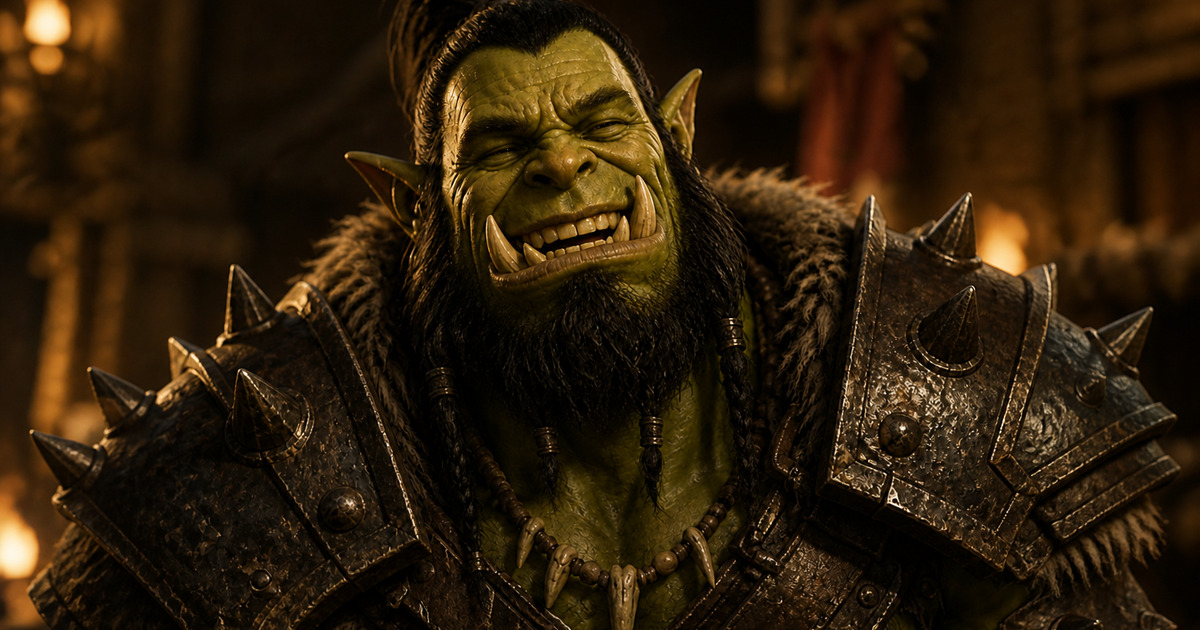
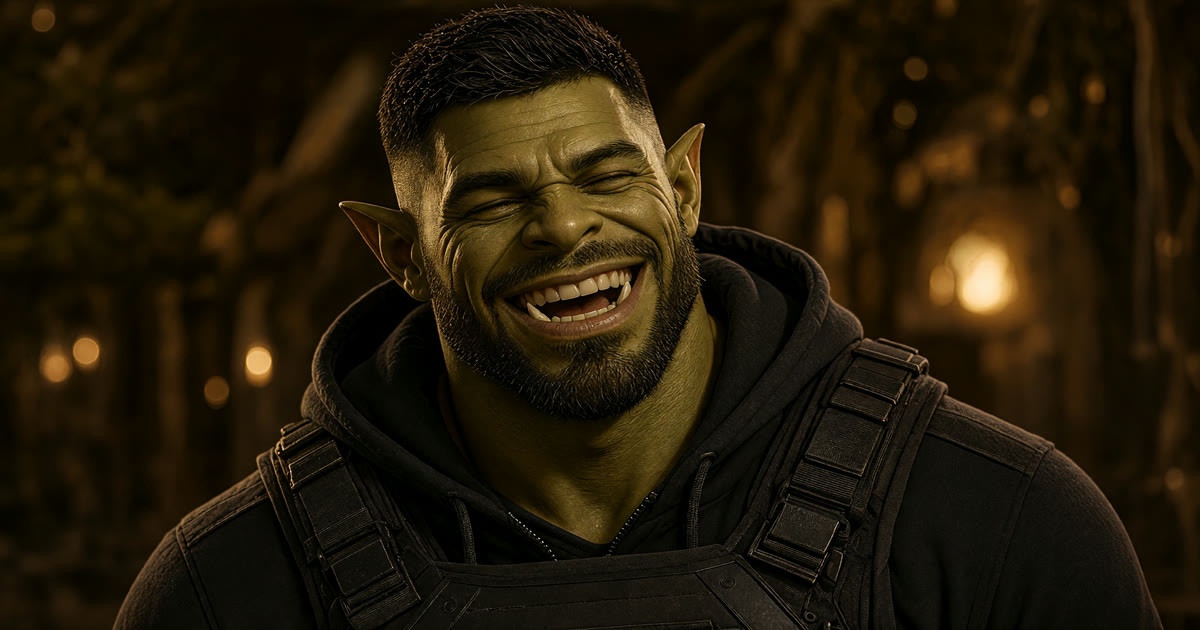
Redesign Happy as a young modern orc warrior.

diff --git a/scripts/imagine-video.ts b/scripts/imagine-video.ts
@@ -59,7 +59,7 @@ const PROMPTS: Record<string, string> = {
     "The orc charges forward with the army, ranks running behind him, then bellows a rallying war cry, fist raised. Keep the wide shot and the army in frame. Locked camera, no zoom to a close-up.",
   gold: "The orc sits on the treasure and grins richer as coins shift and glint. A small satisfied chuckle in the shoulders. Locked camera.",
   happy:
-    "The orc laughs happily, a warm chuckle shaking his shoulders, eyes crinkling, grin holding. Locked camera.",
+    "The orc laughs happily, a warm chuckle shaking his shoulders, eyes crinkling, grin holding. Keep the short modern fade haircut, the short trimmed beard, the hoodie, and the tactical vest exactly as they are. Do not grow long hair, a mohawk, or a long beard. Locked camera.",
   heart:
     "The orc holds the heart-shaped hands toward the camera, a warm affectionate smile, a small fond blink. Locked camera.",
   hype:
